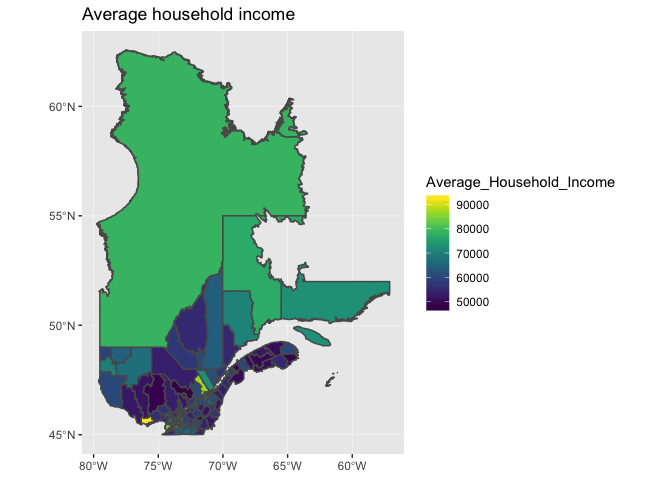
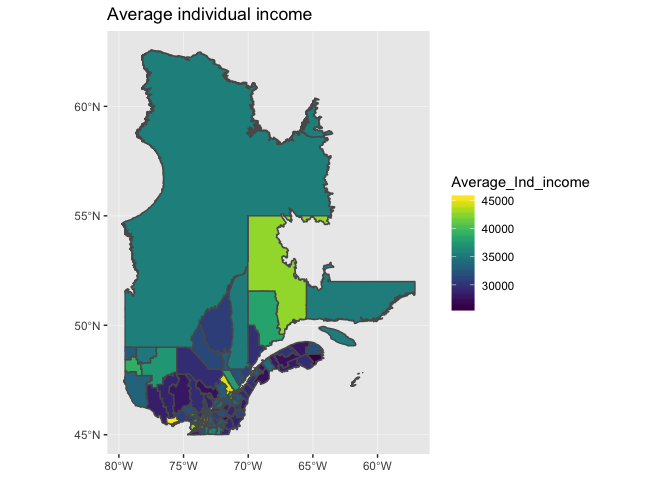
Plots correctly named

diff --git a/maps/economic_metrics_maps.md b/maps/economic_metrics_maps.md
@@ -37,15 +37,15 @@ print(avg_h_income_plot)
 print(Sys.time())
 ```
 
-    ## [1] "2019-05-04 15:43:48 EDT"
+    ## [1] "2019-05-04 16:02:42 EDT"
 
 ``` r
 avg_i_income_plot <-  ggplot(data = can) +
-  geom_sf(aes(fill = Average_Individual_Income)) +
+  geom_sf(aes(fill = Average_Ind_income)) +
   scale_fill_viridis() +
   ggtitle('Average individual income')
 
-print(avg_h_income_plot)
+print(avg_i_income_plot)
 ```
 
 ![](economic_metrics_maps_files/figure-markdown_github/plot%20average%20ind%20income-1.png)
@@ -54,7 +54,7 @@ print(avg_h_income_plot)
 print(Sys.time())
 ```
 
-    ## [1] "2019-05-04 15:46:12 EDT"
+    ## [1] "2019-05-04 16:05:03 EDT"
 
 ``` r
 total_pop_plot <-  ggplot(data = can) +
@@ -71,4 +71,4 @@ print(total_pop_plot)
 print(Sys.time())
 ```
 
-    ## [1] "2019-05-04 15:48:36 EDT"
+    ## [1] "2019-05-04 16:07:35 EDT"
